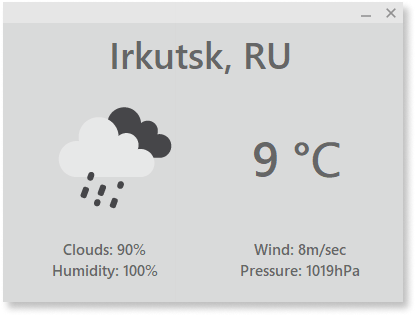
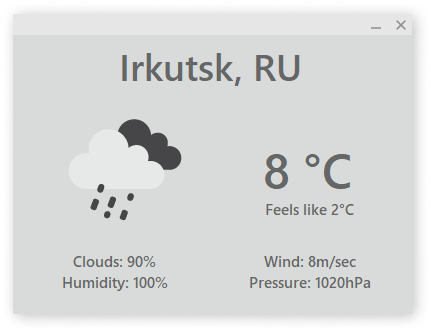
Fix Label :P

diff --git a/MainForm.Designer.cs b/MainForm.Designer.cs
@@ -156,7 +156,7 @@
             // 
             // TempDescLabel
             // 
-            this.TempDescLabel.Font = new System.Drawing.Font("Segoe UI Light", 9.75F);
+            this.TempDescLabel.Font = new System.Drawing.Font("Segoe UI Semibold", 11.25F, System.Drawing.FontStyle.Bold);
             this.TempDescLabel.ForeColor = System.Drawing.SystemColors.ControlDarkDark;
             this.TempDescLabel.Location = new System.Drawing.Point(227, 183);
             this.TempDescLabel.Name = "TempDescLabel";
@@ -251,6 +251,7 @@
             this.AutoScaleMode = System.Windows.Forms.AutoScaleMode.Font;
             this.BackColor = System.Drawing.SystemColors.ControlLight;
             this.ClientSize = new System.Drawing.Size(400, 300);
+            this.Controls.Add(this.TempDescLabel);
             this.Controls.Add(this.ErrorLabel);
             this.Controls.Add(this.GlobePic);
             this.Controls.Add(this.ReconnectButton);
@@ -260,7 +261,6 @@
             this.Controls.Add(this.CloseButton);
             this.Controls.Add(this.CustomPanel);
             this.Controls.Add(this.TempLabel);
-            this.Controls.Add(this.TempDescLabel);
             this.Controls.Add(this.WindLabel);
             this.Controls.Add(this.PressureLabel);
             this.Controls.Add(this.HumidityLabel);
@@ -274,7 +274,6 @@
             this.Name = "MainForm";
             this.Opacity = 0D;
             this.StartPosition = System.Windows.Forms.FormStartPosition.CenterScreen;
-            this.TransparencyKey = System.Drawing.Color.White;
             this.Resize += new System.EventHandler(this.ToTray);
             ((System.ComponentModel.ISupportInitialize)(this.WeatherIco)).EndInit();
             this.MenuTray.ResumeLayout(false);

diff --git a/MainForm.cs b/MainForm.cs
@@ -79,8 +79,8 @@ namespace WeatherCS
                 string title = $"Weather: {name}, {region}";
 
                 //main
-                string temp = $"{(string)w["main"]["temp"]} ℃";
-                string tempDesc = $"Feels like {(string)w["main"]["feels_like"]}°C";
+                string temp = $"{(string)w["main"]["temp"]} °C";
+                string tempDesc = $"Feels like {Math.Ceiling((double)w["main"]["feels_like"])}°C";
                 string humidity = $"Humidity: {(string)w["main"]["humidity"]}%";
                 string pressure = $"Pressure: {(string)w["main"]["pressure"]}hPa";
                 string clouds = $"Clouds: {(string)w["clouds"]["all"]}%";

diff --git a/Shadow.Designer.cs b/Shadow.Designer.cs
@@ -36,7 +36,6 @@
             this.AutoScaleMode = System.Windows.Forms.AutoScaleMode.Font;
             this.ClientSize = new System.Drawing.Size(120, 61);
             this.Name = "Shadow";
-            this.Text = "Shadow";
             this.TransparencyKey = System.Drawing.Color.White;
             this.ResumeLayout(false);
 
